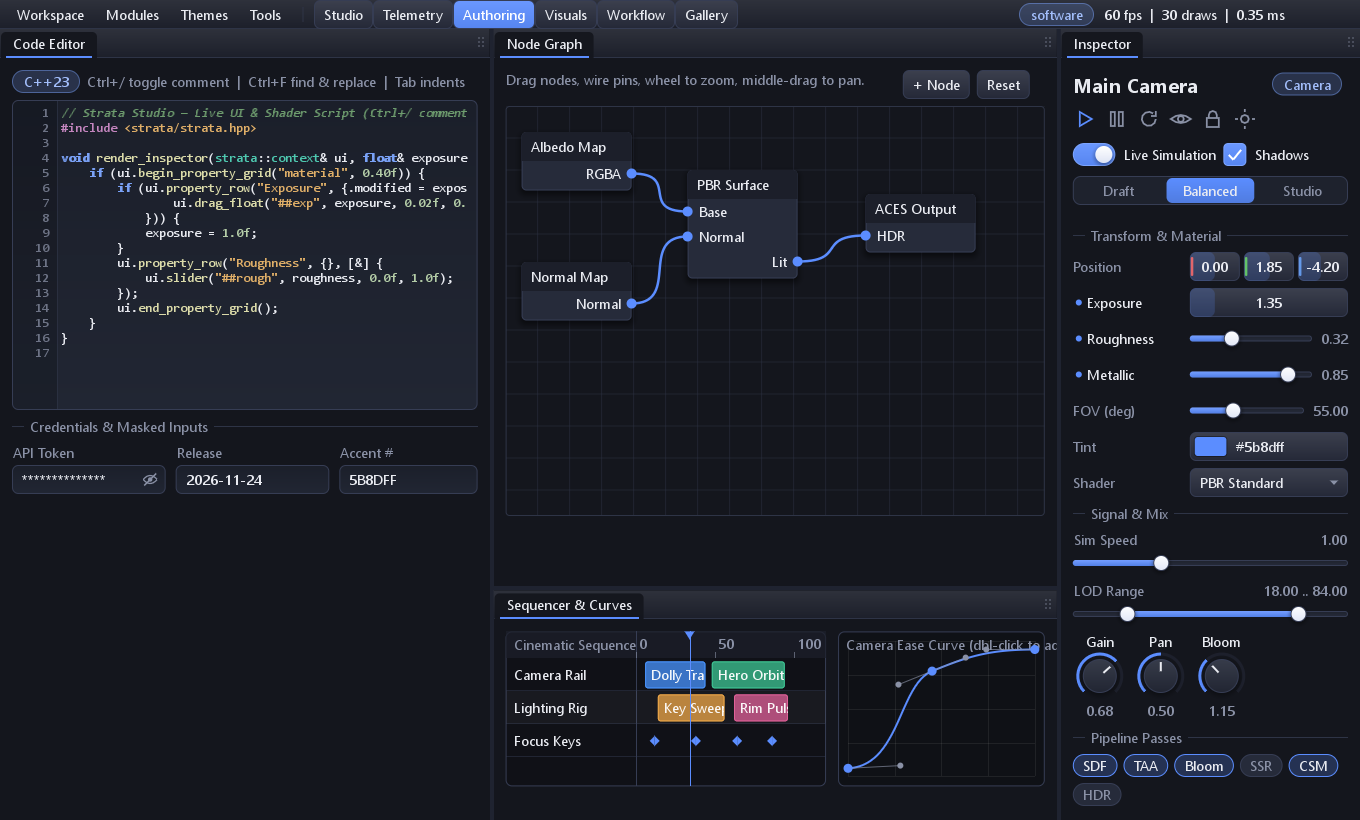
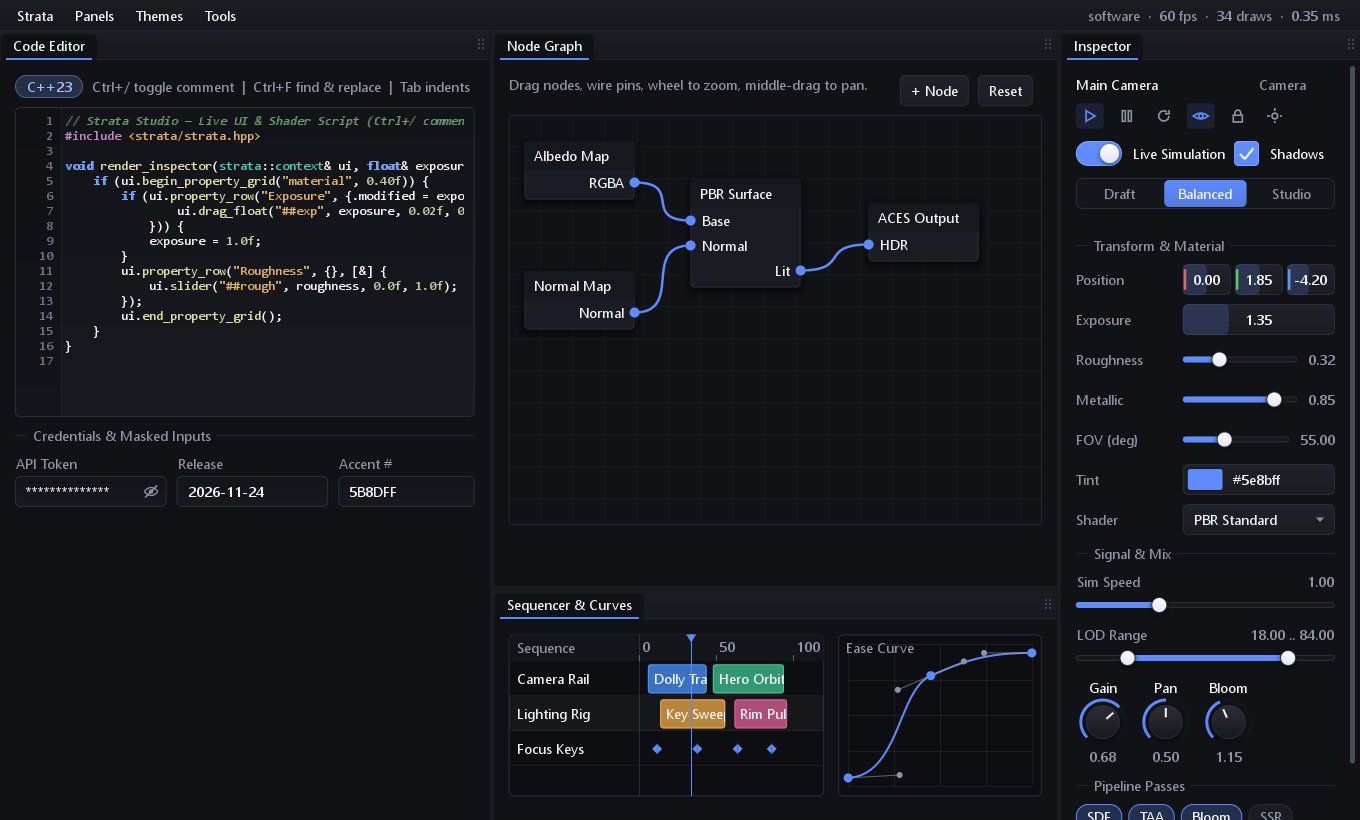
README.md updated

diff --git a/README.md b/README.md
@@ -8,7 +8,7 @@ A fast, zero-allocation-in-steady-state immediate-mode UI framework in modern C+
 
 [**Features**](#why-strata) · [**Screenshots**](#screenshots) · [**Backends**](#backends--platforms) · [**Benchmarks**](#benchmarks) · [**Quickstart**](#quickstart) · [**Build**](#build--test) · [**Docs**](#documentation)
 
-![Strata Studio docked workspace with scene explorer, live telemetry charts, heatmap, sequencer, curve editor, and property inspector](docs/screenshots/studio.png)
+![Strata Guided Tour overview with live SDF surface preview, corner radius and acrylic blur controls, metrics, and chapter navigation](docs/screenshots/tour.png)
 
 ## Why strata?
 
@@ -23,10 +23,13 @@ A fast, zero-allocation-in-steady-state immediate-mode UI framework in modern C+
 
 Captured from the shared modular showcase (`strata_sandbox --scene NAME --shot FILE` — identical UI runs live in the browser via WebGPU in [`web/`](web/)).
 
+![Docking Studio](docs/screenshots/studio.png)
+**Docking Studio** - 3-panel dockable workspace with scene explorer, live PBR material viewport, tabbed node graph, and property inspector
+
 | | |
 |---|---|
-| ![Telemetry & Data](docs/screenshots/telemetry.png)<br>**Telemetry & Data** - interactive multi-series charts, budget reference lines, histograms, 2D heatmaps, and 100k-row virtualized tables | ![Authoring & Shaders](docs/screenshots/authoring.png)<br>**Authoring & Shaders** - syntax-highlighted code editor (`Ctrl+/`, find/replace), PBR node graph, timeline sequencer, and Bezier curve editor |
-| ![Visuals & Frosted Glass](docs/screenshots/visuals.png)<br>**Visuals & Frosted Glass** - analytic SDF gradients, antialiased vector paths, live acrylic backdrop blur (`glass` theme), SVG icons, and rich UTF-8/RTL text | ![Workflow & Pickers](docs/screenshots/productivity.png)<br>**Workflow & Pickers** - Kanban drag & drop, color token drop targets, date/time pickers, closable/reorderable tabs, and rebindable shortcuts |
+| ![Telemetry & Data](docs/screenshots/telemetry.png)<br>**Telemetry & Data** - interactive multi-series charts, budget reference lines, histograms, 2D heatmaps, and 100k-row virtualized tables | ![Authoring & Shaders](docs/screenshots/authoring.png)<br>**Authoring & Shaders** - syntax-highlighted C++23 code editor (`Ctrl+/`, find/replace), PBR node graph, timeline sequencer, and Bezier curve editor |
+| ![Visuals & Frosted Glass](docs/screenshots/visuals.png)<br>**Visuals & Frosted Glass** - analytic SDF gradients, antialiased vector paths, live acrylic backdrop blur (`glass` theme), SVG icons, and rich UTF-8/RTL text | ![Workflow & Pickers](docs/screenshots/productivity.png)<br>**Workflow & Pickers** - Kanban drag & drop, color token drop targets, editable date/time pickers, closable/reorderable tabs, and rebindable shortcuts |
 | ![Command Palette](docs/screenshots/palette.png)<br>**Command Palette** - `Ctrl+Shift+P` fuzzy action search with multi-key chords over the docked studio workspace | ![Component Gallery](docs/screenshots/gallery.png)<br>**Component Gallery** - searchable, categorized module browser; new feature modules drop into `showcase/modules/` and appear on desktop and WebGPU automatically |
 
 ## Backends & platforms
